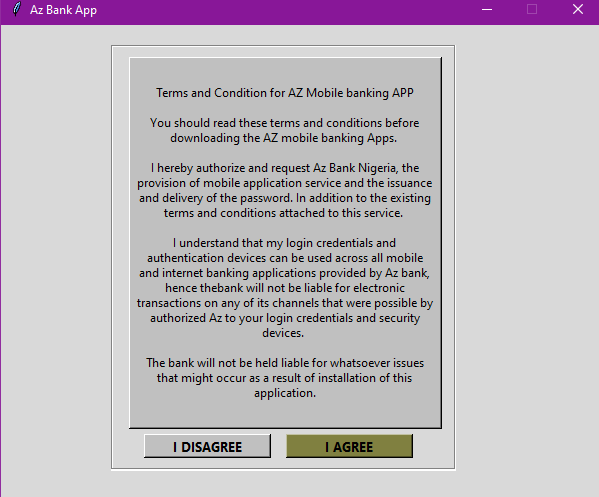
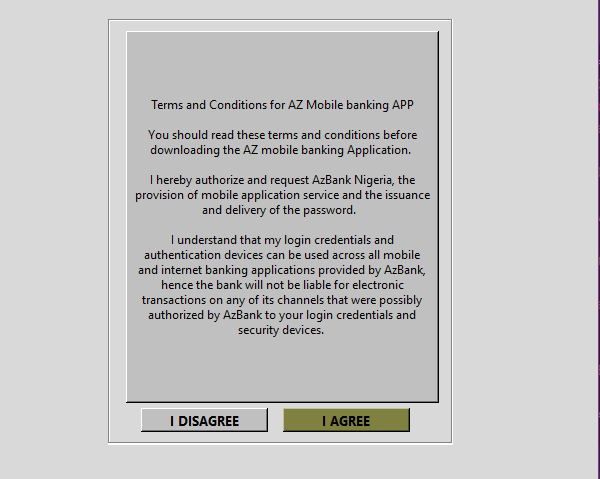
modified the terms and conditions

Changed region(s): [[0.0, 0.0, 1.0, 1.0]]

diff --git a/Bank_App_updated.py b/Bank_App_updated.py
@@ -440,15 +440,13 @@ class Az_Bank:
         self.Disclaimer.configure(highlightbackground="#d9d9d9")
         self.Disclaimer.configure(highlightcolor="black")
         self.Disclaimer.configure(relief="raised")
-        self.Disclaimer.configure(text='''Terms and Condition for AZ Mobile banking APP
+        self.Disclaimer.configure(text='''Terms and Conditions for AZ Mobile banking APP
 
-You should read these terms and conditions before downloading the AZ mobile banking Apps. 
+You should read these terms and conditions before downloading the AZ mobile banking Application. 
 
-I hereby authorize and request Az Bank Nigeria, the provision of mobile application service and the issuance and delivery of the password. In addition to the existing terms and conditions attached to this service. 
+I hereby authorize and request AzBank Nigeria, the provision of mobile application service and the issuance and delivery of the password.  
 
-I understand that my login credentials and authentication devices can be used across all mobile and internet banking applications provided by Az bank, hence thebank will not be liable for electronic transactions on any of its channels that were possible by authorized Az to your login credentials and security devices. 
-
-The bank will not be held liable for whatsoever issues that might occur as a result of installation of this application.''')
+I understand that my login credentials and authentication devices can be used across all mobile and internet banking applications provided by AzBank, hence the bank will not be liable for electronic transactions on any of its channels that were possibly authorized by AzBank to your login credentials and security devices. ''')
         self.Disclaimer.configure(wraplength="300")
 
         # ----------REGISTRATION FRAME FOR TOTALLY NEW USER---------------------------
